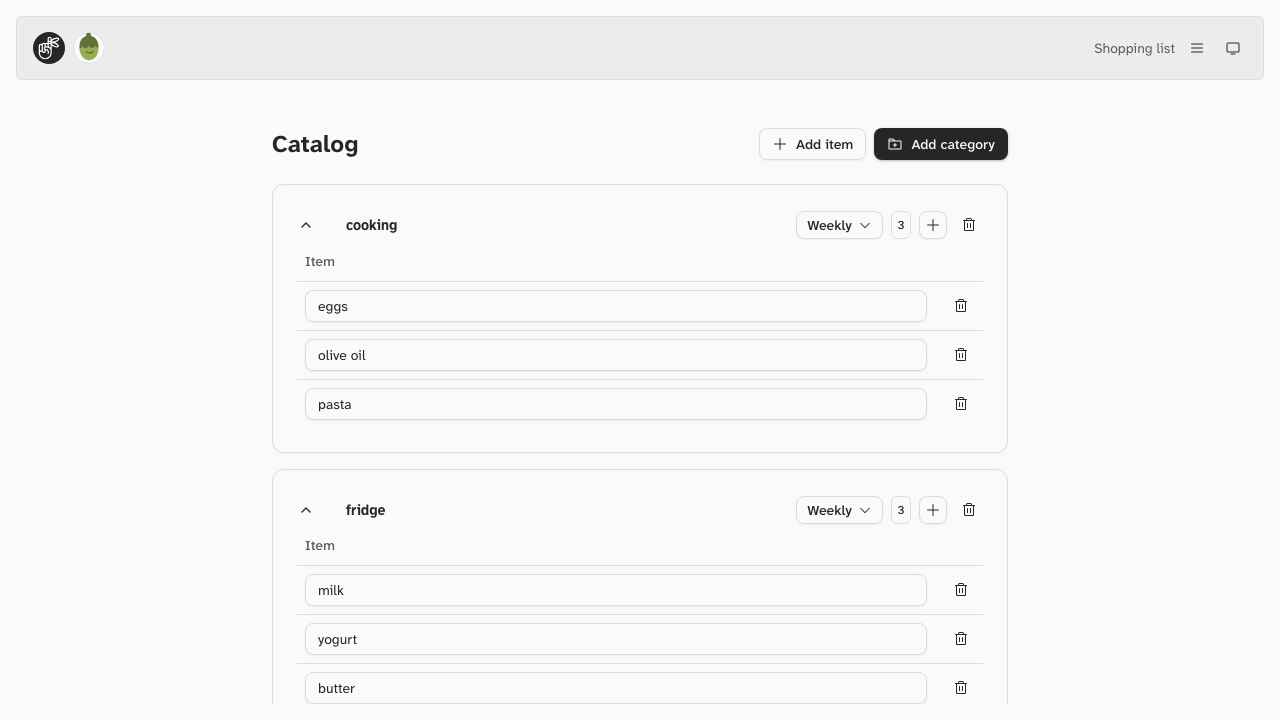
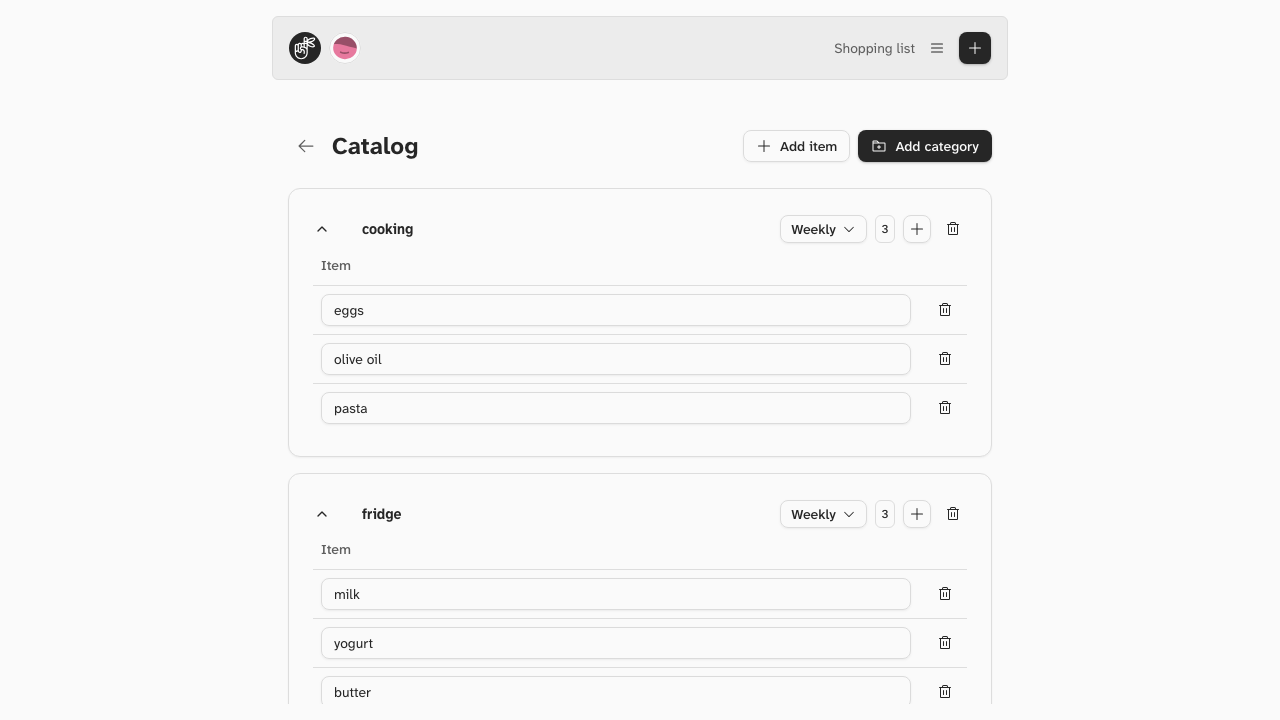
chore: release v3.3.0
- History page, Quick Add dialog, PWA install prompt/banner, offline hardening
- Fix history category labels; update About/Help; refresh screenshots

diff --git a/src/views/help.tsx b/src/views/help.tsx
@@ -48,6 +48,12 @@ const HelpView = () => (
           Your list is grouped by category. Check items off as you put them in
           the cart.
         </li>
+        <li>
+          Need something that isn&rsquo;t in the catalog yet? Tap the{" "}
+          <strong>+</strong> button in the menu to open quick add — a grouped
+          autocomplete suggests items by category and surfaces your
+          recommendations as you type.
+        </li>
       </ul>
     </section>
 
@@ -114,6 +120,21 @@ const HelpView = () => (
           It nudges you when something is due based on that rhythm — the
           suggestions grow more confident the more you shop, and it stays quiet
           about things you rarely buy or already have on your list.
+        </li>
+      </ul>
+    </section>
+
+    <section className="flex flex-col gap-2">
+      <h2 className="font-semibold text-lg">History</h2>
+      <ul className="flex list-disc flex-col gap-1 pl-5 text-muted-foreground marker:text-muted-foreground">
+        <li>
+          The <strong>History</strong> tab shows your recent shopping activity —
+          every add and remove — grouped by day and limited to the last 7 days,
+          so you can quickly see what you&rsquo;ve already picked up.
+        </li>
+        <li>
+          The category label on each row is a snapshot taken when the event
+          happened, so it stays accurate even if you rename a category later.
         </li>
       </ul>
     </section>

diff --git a/src/views/about.tsx b/src/views/about.tsx
@@ -43,6 +43,11 @@ const AboutView = () => (
           is grouped by category and you can check items off as you shop.
         </li>
         <li>
+          <strong>Quick add</strong>: tap the <strong>+</strong> button in the
+          menu to add a new item on the fly. A grouped autocomplete suggests
+          items by category and surfaces your recommendations as you type.
+        </li>
+        <li>
           <strong>Catalog</strong>: browse and search your items, rename them in
           place, and add or delete items and categories in collapsible sections
           sorted by how often you reach for them.
@@ -53,8 +58,9 @@ const AboutView = () => (
           from your history the more you shop.
         </li>
         <li>
-          <strong>Item detail</strong>: tap an item to open a detail view with
-          more information at a glance.
+          <strong>History</strong>: review your recent shopping in the History
+          tab — your last 7 days of adds and removes, grouped by day, so you can
+          see what you&rsquo;ve picked up and what&rsquo;s still pending.
         </li>
         <li>
           <strong>Color palettes</strong>: choose a categorical palette (Van

diff --git a/CHANGELOG.md b/CHANGELOG.md
@@ -2,6 +2,27 @@
 
 All notable changes to Remindit will be documented in this file.
 
+## v3.3.0 — 2026-08-29
+
+_Your shopping history arrives, adding items is faster, and Remindit now nudges you to install it as a real app — all wrapped in a more robust offline experience._
+
+### ✨ New Features
+
+- **History**: A new History tab shows your last 7 days of shopping — every item added and removed — grouped by day so you can see what you've already picked up
+- **Quick Add**: Tap the + button in the menu to add items on the fly. A grouped autocomplete suggests items by category and surfaces your recommendations as you type
+- **Install Prompt**: Remindit now prompts you to install it to your home screen, with "Maybe later" and "No" options so the banner stays out of your way
+- **Richer Install Gallery**: The install UI shows a screenshot gallery so the app looks great before you add it
+
+### 🔧 Improvements
+
+- **PWA Hardening**: Better safe-area handling, an in-app update prompt when a new version ships, and offline deep links that survive reloads
+- **Responsive Shell**: The app is now constrained to a comfortable max width with tighter mobile insets
+- **Help & About**: Documentation updated to cover History and Quick Add
+
+### 🐛 Fixes
+
+- **History Categories**: History rows now show the correct category name, captured as a snapshot when each event happened
+
 ## v3.2.0 — 2026-08-28
 
 _Your first run just got friendlier: a guided onboarding flow sets up your profile and starter catalog, and a new Profile page puts your account front and center._
